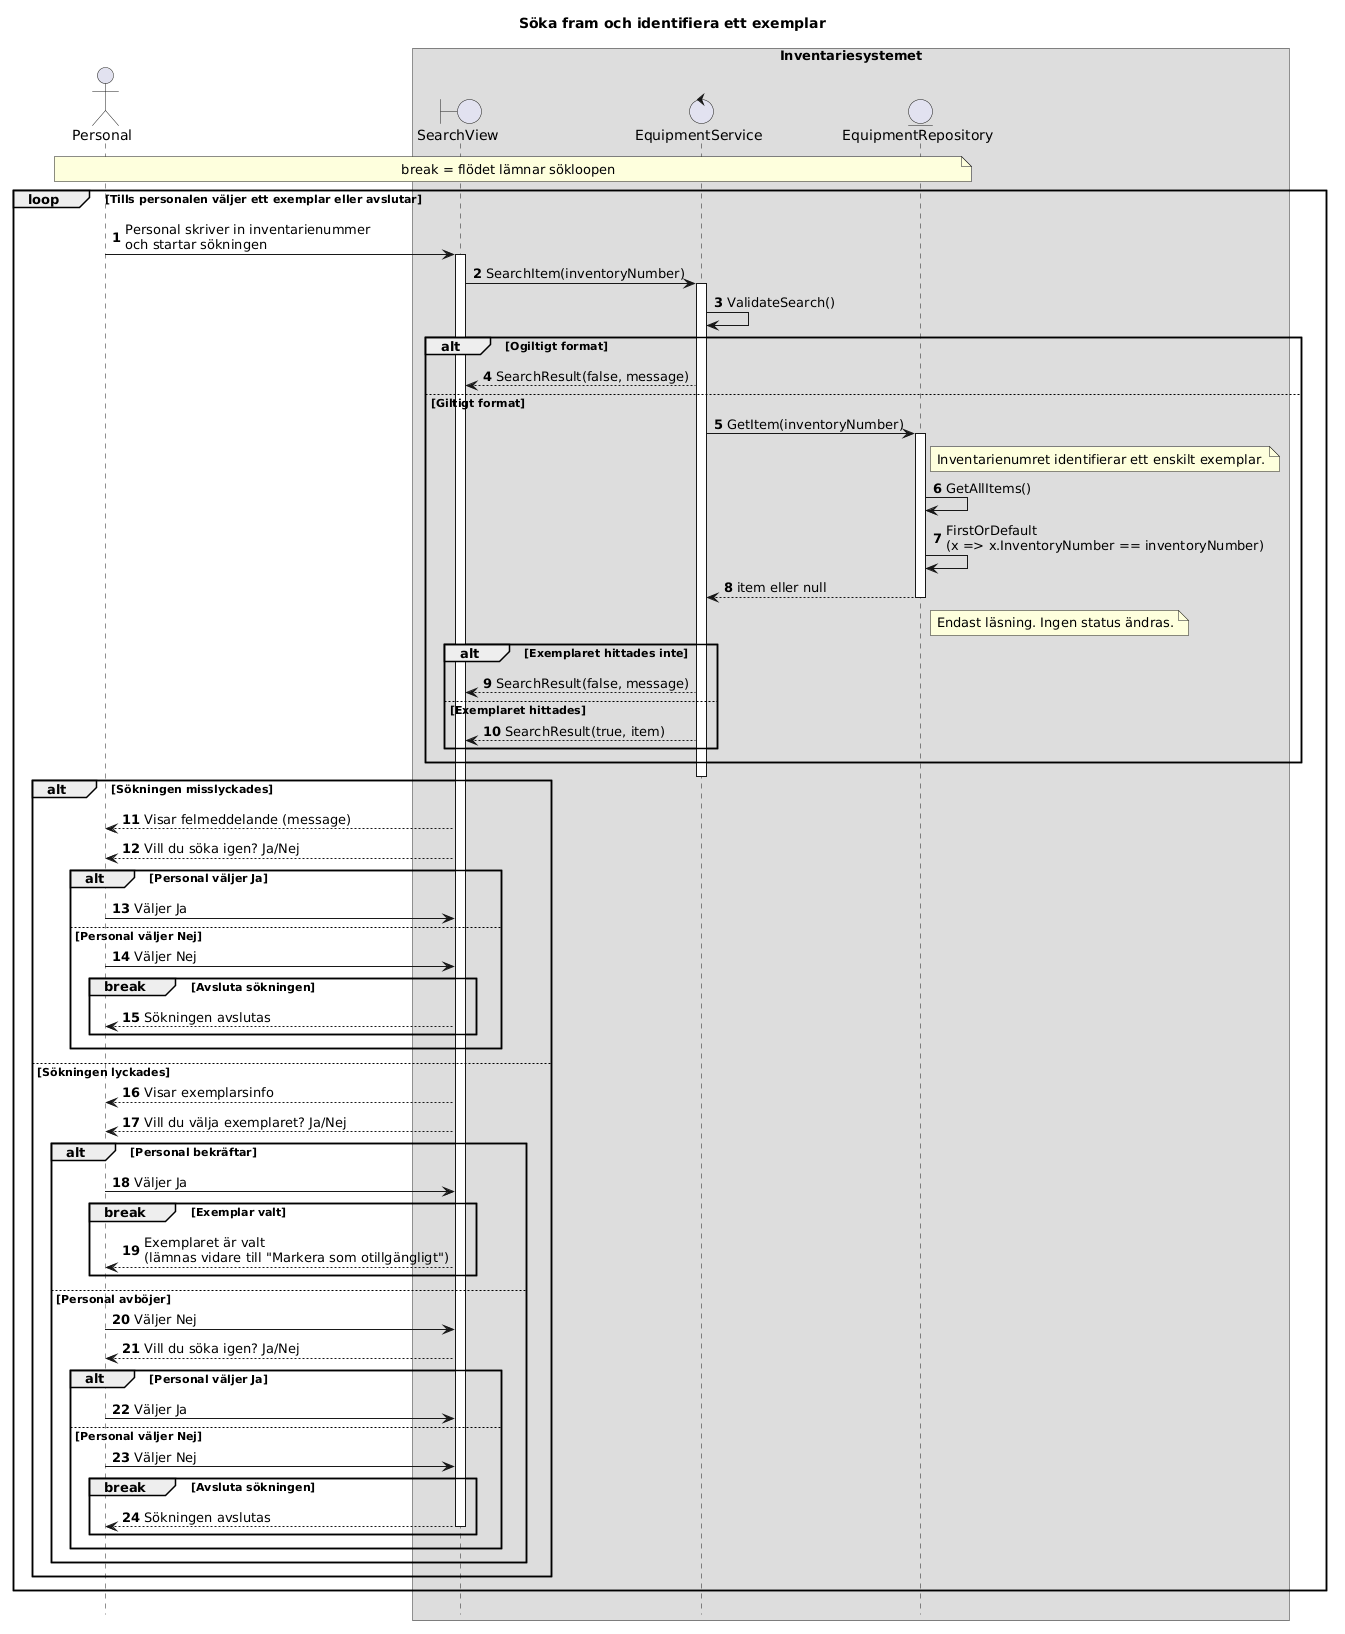
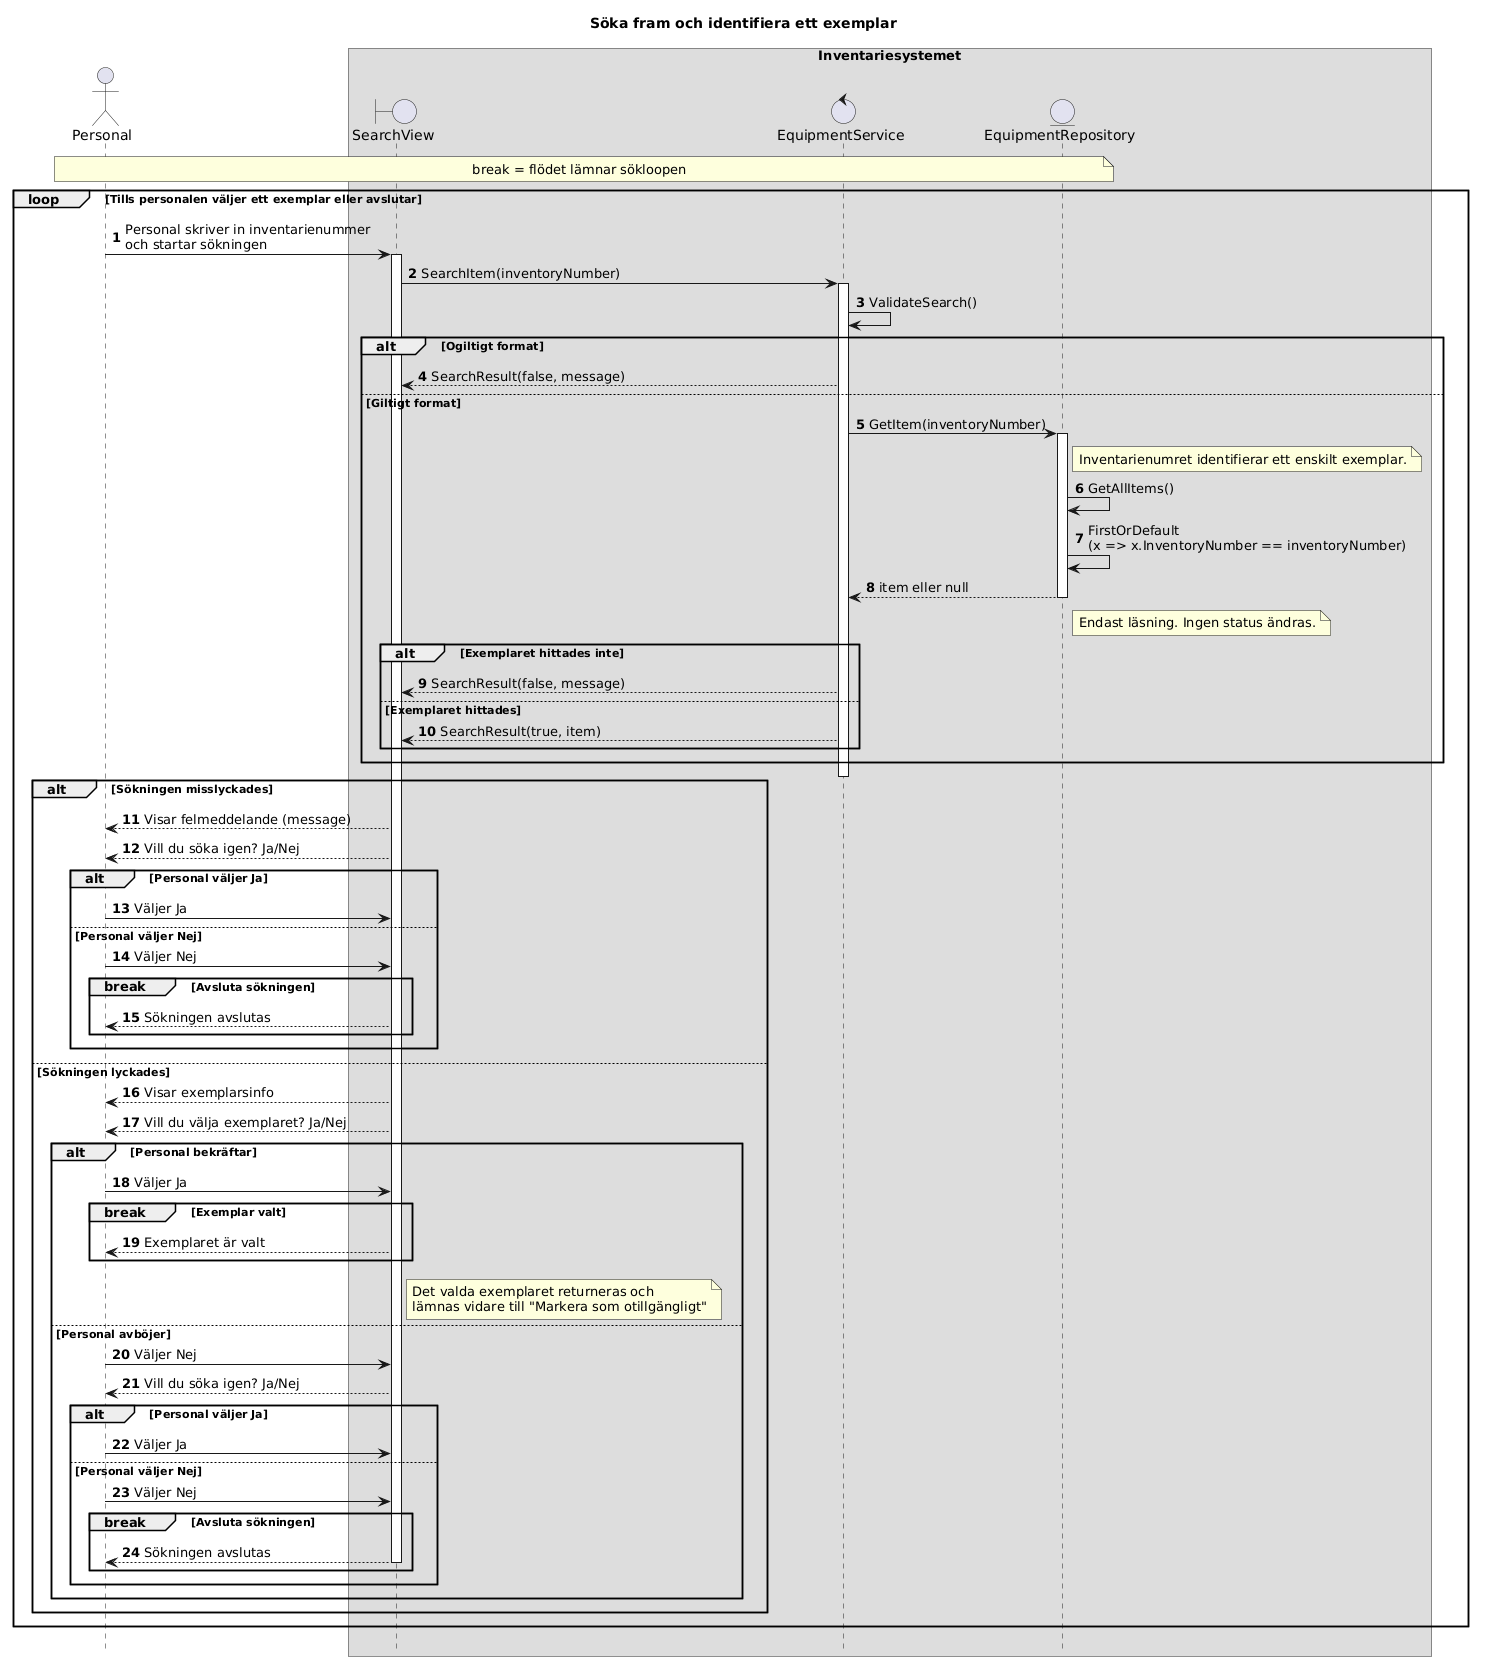
fix small diagram adjustments

Changed region(s): [[0.0, 0.0, 0.9993, 0.9988], [0.4059, 0.6554, 0.4372, 0.6867]]

diff --git a/IndividuellUppgiftUserStory/Views/SearchView.cs b/IndividuellUppgiftUserStory/Views/SearchView.cs
@@ -21,8 +21,8 @@ public class SearchView
 
         while (true)
         {
-            _output.WriteLine("### Sök efter exemplar###");
-            _output.WriteLine("### Ange inventarienummer:");
+            _output.WriteLine("### Sök efter exemplar ###");
+            _output.WriteLine("### Ange inventarienummer: ");
 
             string? input = _input.ReadLine()?.Trim();
 

diff --git a/IndividuellUppgiftUserStory.Tests/Searchviewtests.cs b/IndividuellUppgiftUserStory.Tests/Searchviewtests.cs
@@ -5,7 +5,7 @@ using IndividuellUppgiftUserStory.Views;
 
 namespace IndividuellUppgiftUserStory.Tests;
 
-public class Searchviewtests
+public class SearchViewTests
 {
     private readonly EquipmentRepository _repository = new EquipmentRepository();
 
